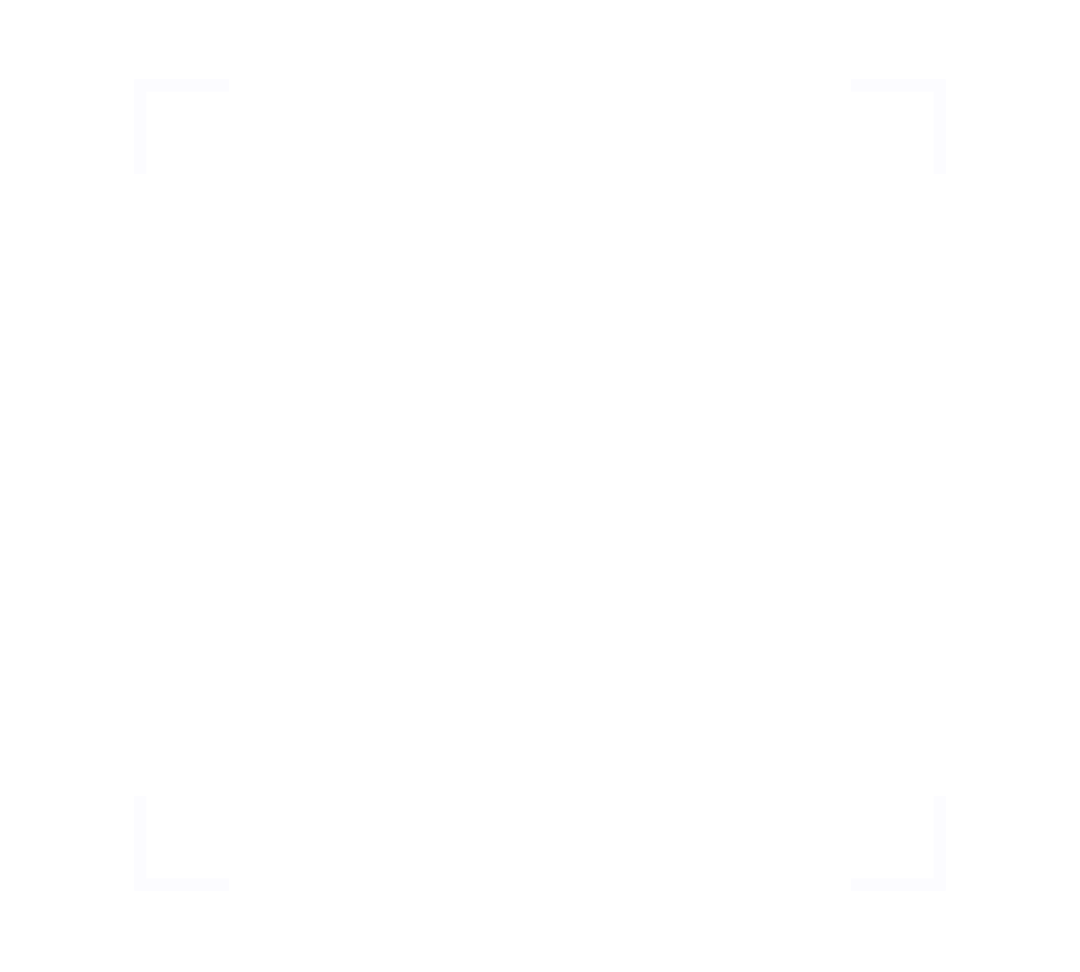
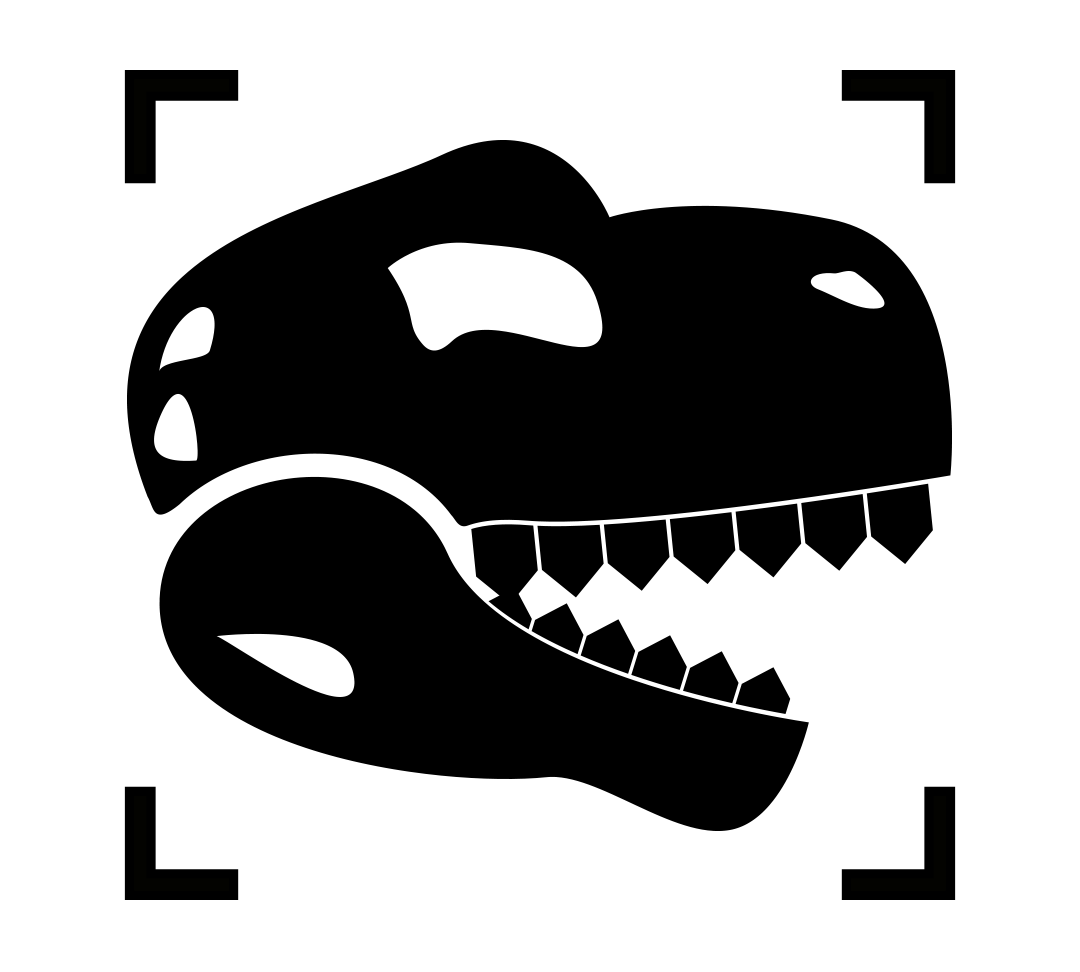
Updated color theme

diff --git a/lib/main.dart b/lib/main.dart
@@ -148,8 +148,7 @@ class _MyHomePageState extends State<MyHomePage> {
                         child: Container(
                           decoration: BoxDecoration(
                             border: Border.all(
-                                color: Theme.of(context).secondaryHeaderColor,
-                                width: 2),
+                                color: Colors.orangeAccent, width: 2),
                           ),
                           child: AspectRatio(
                             aspectRatio: 1,
@@ -213,7 +212,7 @@ class _MyHomePageState extends State<MyHomePage> {
                                       fontWeight: FontWeight.bold))),
                           Padding(
                               padding: EdgeInsets.only(left: 32.0, right: 32.0),
-                              child: Text('Click the Search Button to begin!',
+                              child: Text('Tap the Camera button to begin!',
                                   style: TextStyle(
                                       color: Colors.white, fontSize: 18.0)))
                         ],
@@ -226,7 +225,7 @@ class _MyHomePageState extends State<MyHomePage> {
           width: 96,
           child: FittedBox(
               child: FloatingActionButton(
-            backgroundColor: Colors.green.shade900,
+            backgroundColor: Colors.orangeAccent,
             child: isCameraReady
                 ? Image.asset(
                     'assets/images/dino_cam_icon.png',
@@ -235,8 +234,8 @@ class _MyHomePageState extends State<MyHomePage> {
                     fit: BoxFit.contain,
                   )
                 : Icon(
-                    Icons.search,
-                    color: Colors.white,
+                    Icons.camera_alt,
+                    color: Colors.black,
                   ),
             onPressed: () {
               isCameraReady ? captureImage() : activateDetector();
